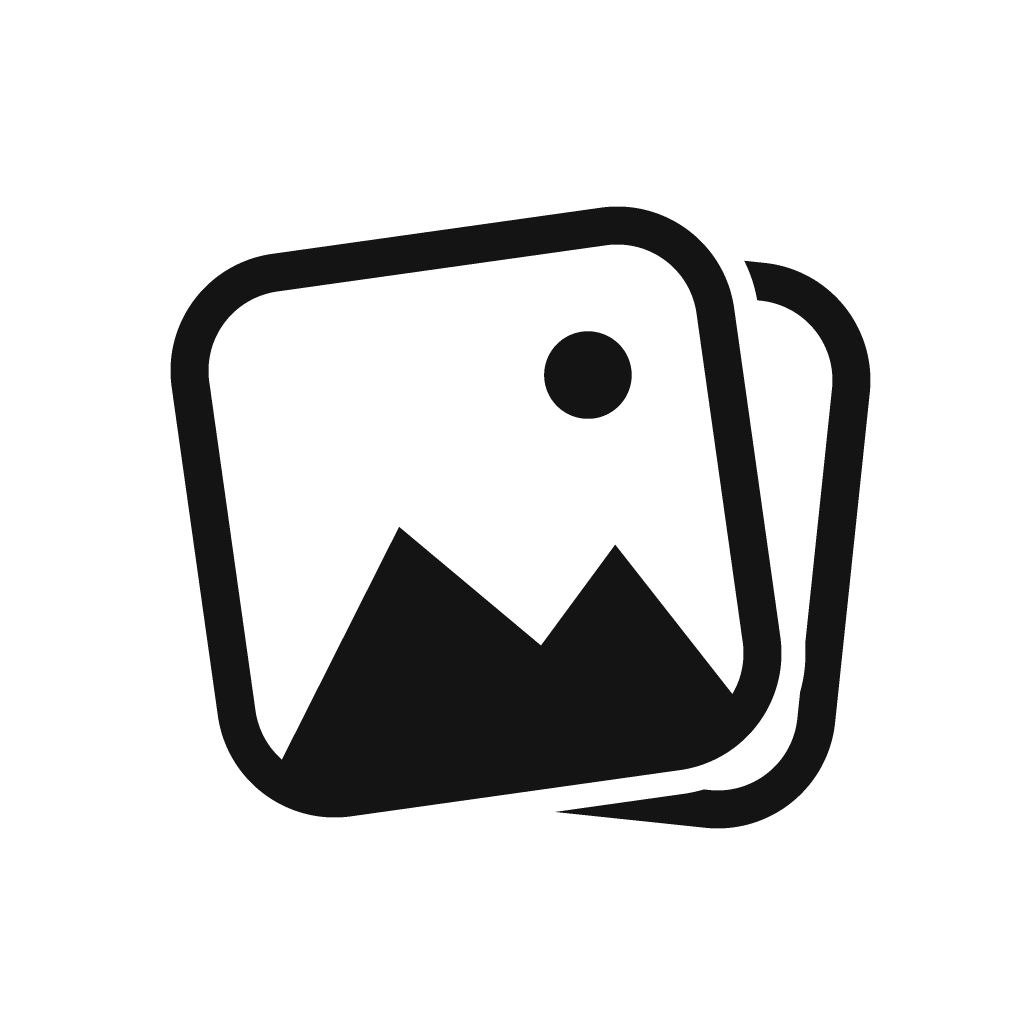
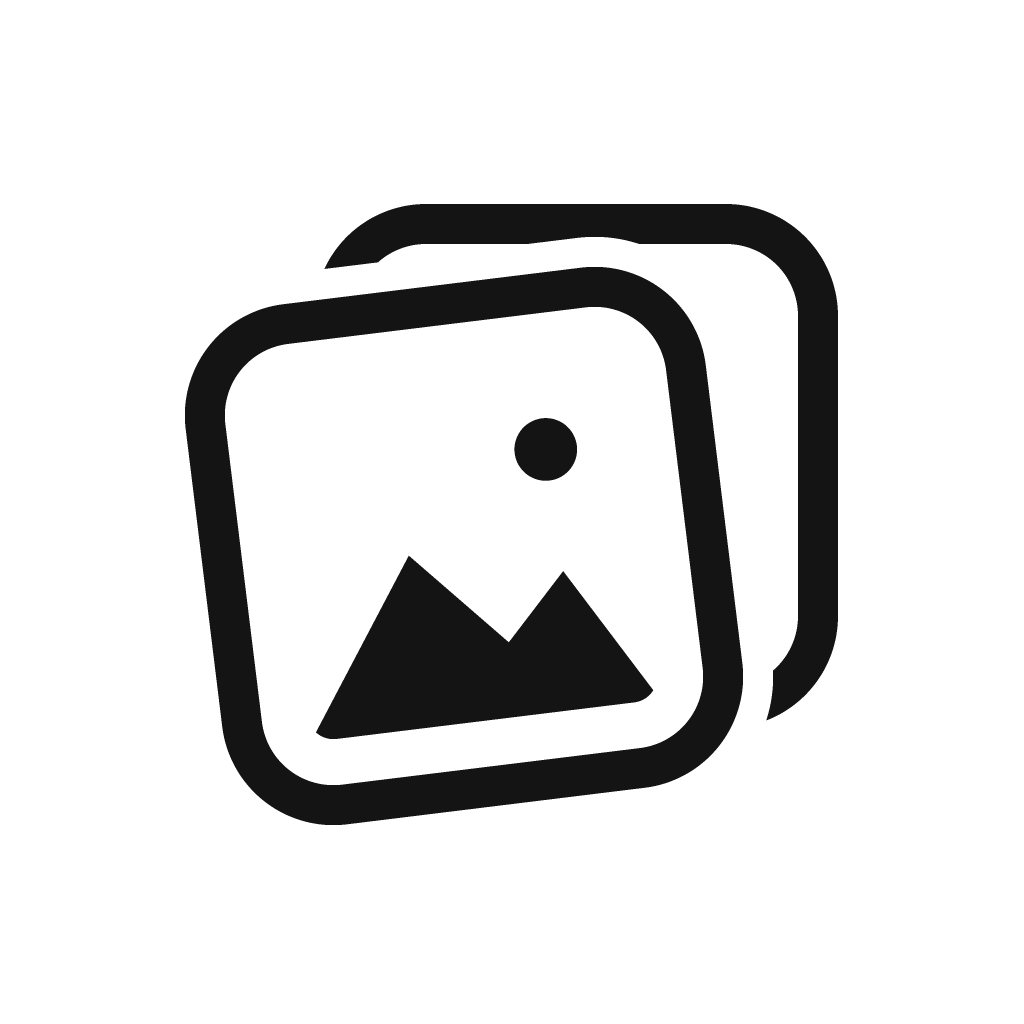
LPを更新（原本: PhotoViewer/docs）

Changed region(s): [[0.1562, 0.1875, 0.875, 0.8125], [0.2188, 0.75, 0.25, 0.7812]]

diff --git a/index.html b/index.html
@@ -155,6 +155,15 @@ footer .wrap{display:flex; flex-wrap:wrap; gap:10px 24px; justify-content:space-
       </span>
     </a>
 
+    <a class="work" href="https://bakuei.com/apps/furusato/" target="_blank" rel="noopener">
+      <span class="tile"><img src="assets/furusato.png" alt=""></span>
+      <span>
+        <span class="name">UL×納税<span class="badge badge-live">公開中</span></span>
+        <span class="note">ふるさと納税の返礼品から、ULキャンプギアを重さと寄付額で探す。</span>
+        <span class="host">bakuei.com/apps/furusato · 2026年9月から</span>
+      </span>
+    </a>
+
     <a class="work" href="https://bakuei.com/" target="_blank" rel="noopener">
       <span class="tile"><img src="assets/bakuei.png" alt=""></span>
       <span>
